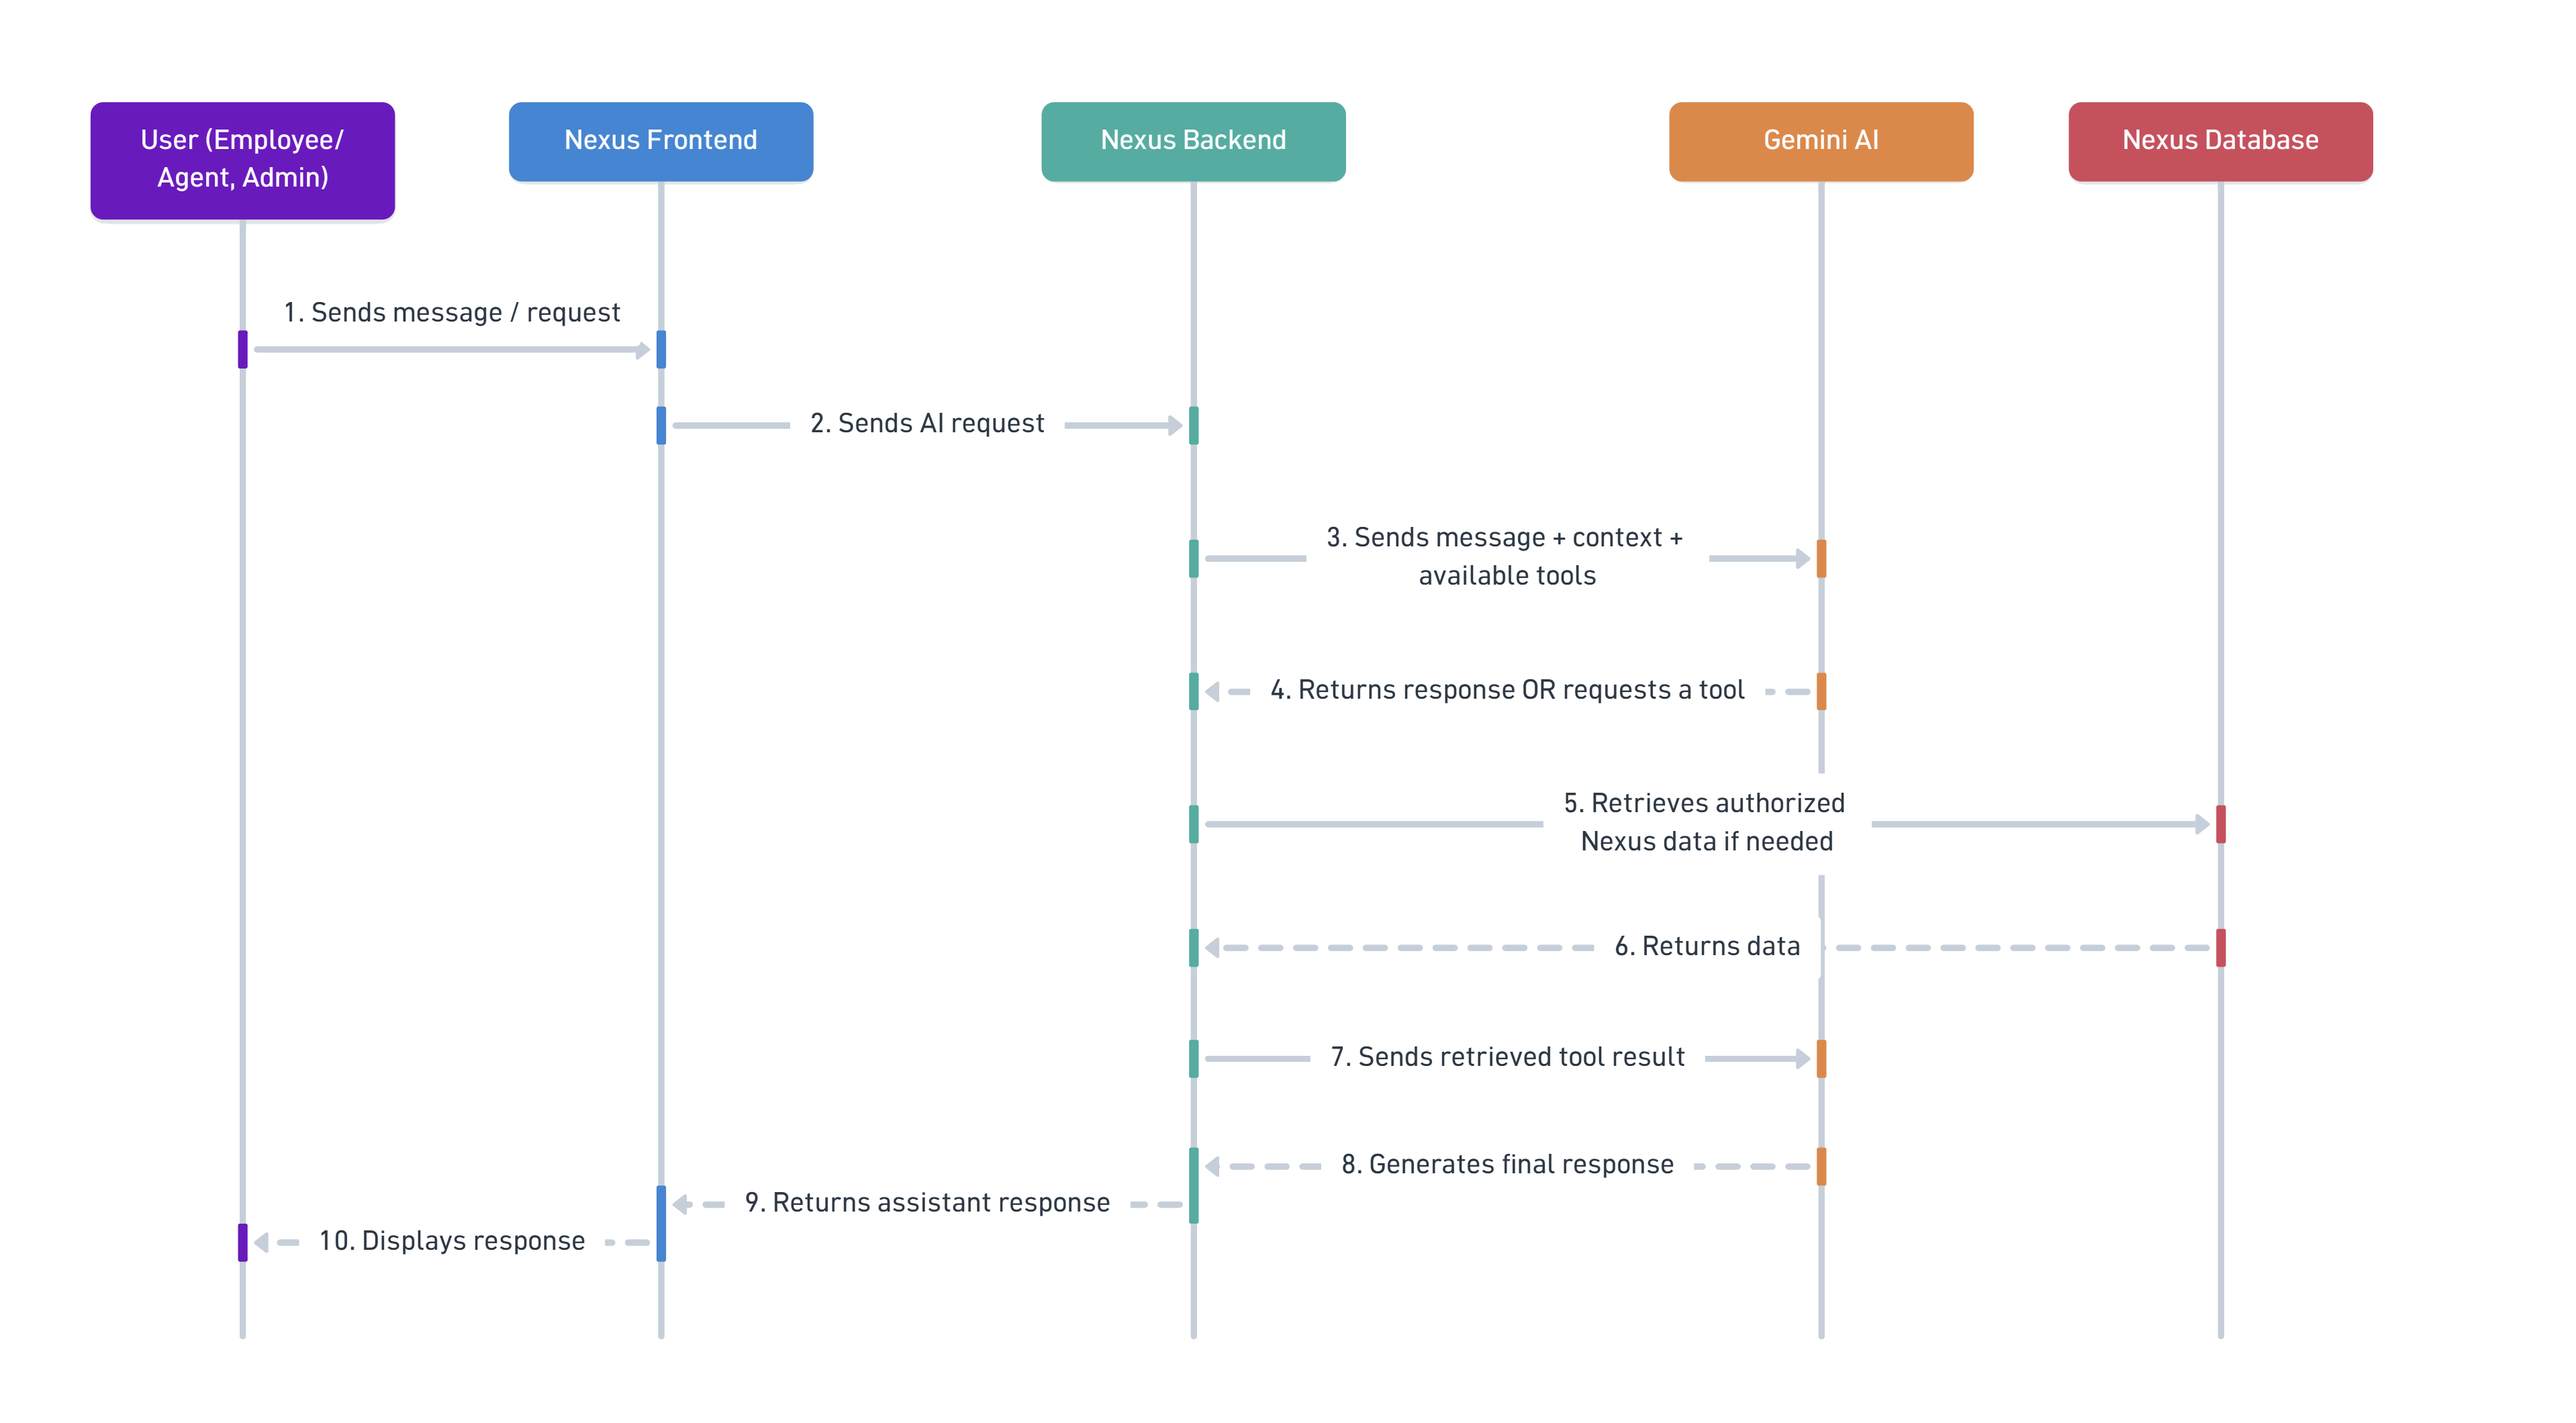
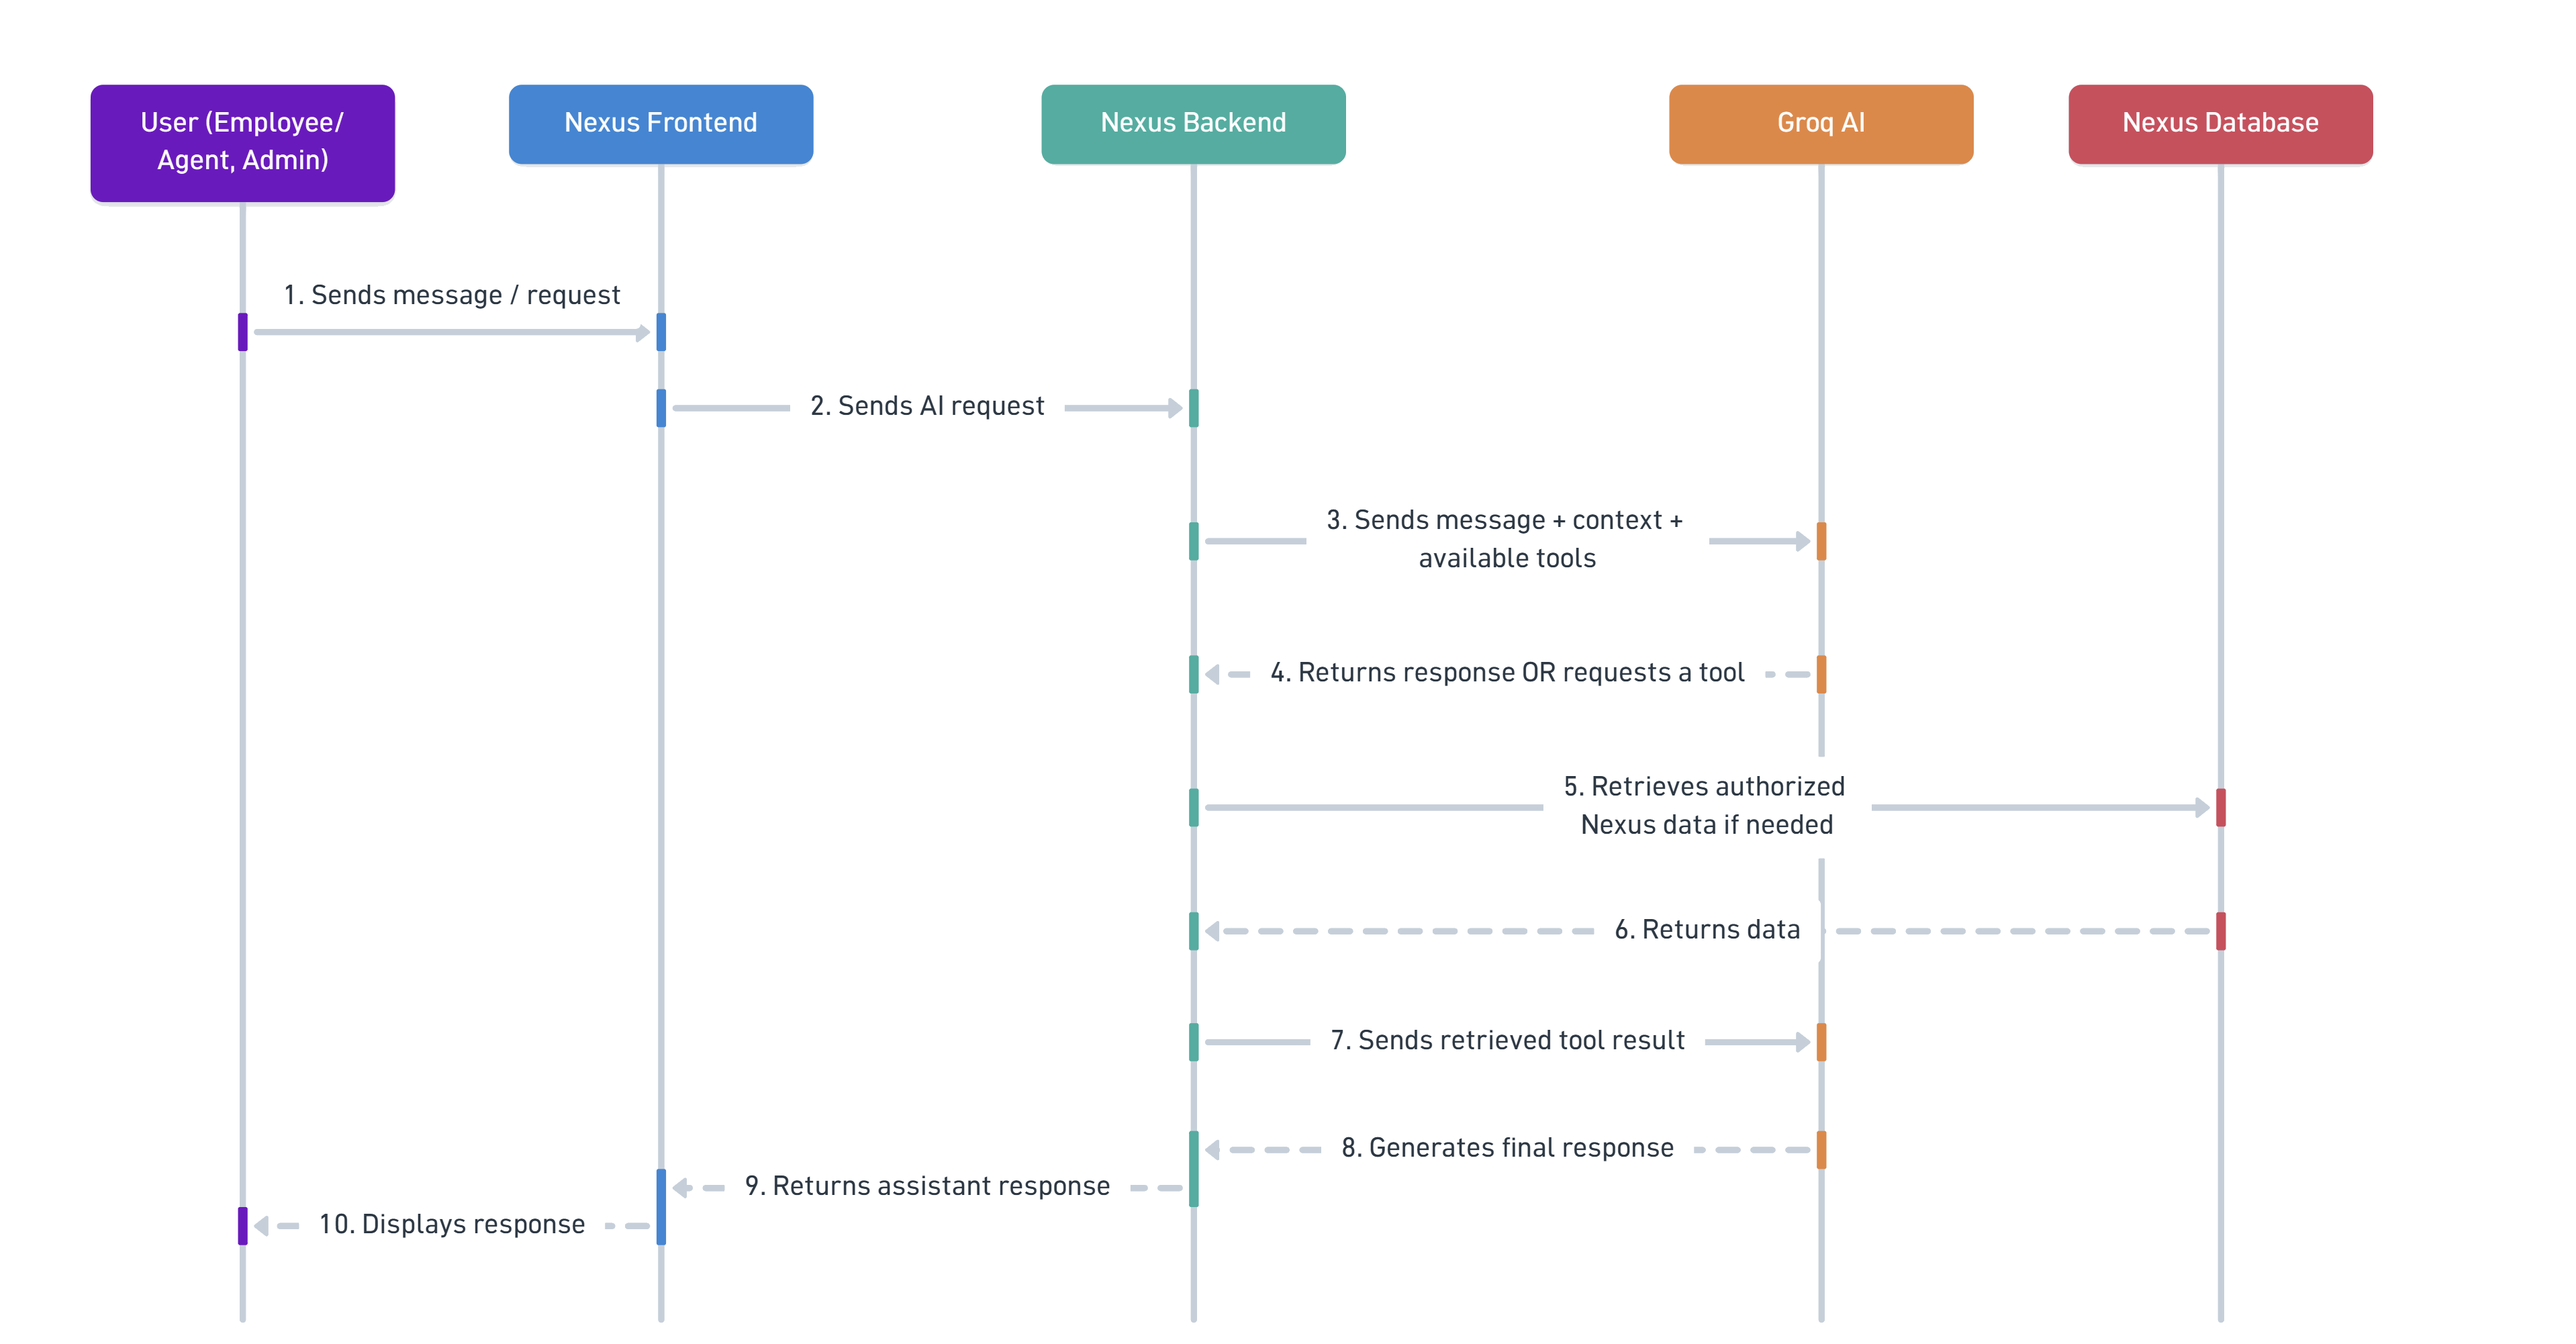
docs: updated documentation to mention Groq AI

diff --git a/docs/architecture.md b/docs/architecture.md
@@ -30,7 +30,7 @@ Handles user authentication through the companies existing identity providers, N
 Sends email notifications generated by Nexus
 
 #### AI Provider
-Provides AI reasoning for the AI assistant functionality, Nexus will use a Groq-hosted Llama model with the free tier as its initial model.
+Provides AI reasoning for the AI assistant functionality, Nexus will use a Groq-hosted model with the free tier as its initial model.
 Additionally, Nexus backend will provide an interface for the AI to call tools in case it needs access to authorized data.
 
 ### Architecture Choice
@@ -70,7 +70,7 @@ The authorization module provides the check for roles but not resources as resou
 
 - FileStorage Adapter: Provides a simple interface for file storing functions and file attachment handling.
 
-- AI Module: Responsible for orchestrating communication with the AI Provider and exposing preset tools for the AI to call. For example, the module exposes a getTicket tool that the AI can call with the specific ticket number to get info about it. Currently, the AI is limited to finding tickets by their number as advanced semantic database searches require RAG implementations which are outside the scope of Nexus.
+- AI Module: Responsible for orchestrating communication with the AI Provider and exposing tools for the AI to call. For example, the module exposes a getTicket tool that the AI can call with the specific ticket number to get info about it. Currently, the AI is limited to finding tickets by their number as advanced semantic database searches require RAG implementations which are outside the scope of Nexus.
 
 ![Module Connections](assets/Module%20Connections.png)
 
@@ -135,7 +135,7 @@ Nexus should correctly handle errors related to the Email Provider API:
 #### AI Provider
 Nexus uses a third party AI provider to power its AI assistant. The backend communicates with the AI provider through its API, sending user messages and the necessary context and receiving generated responses or requests to use available Nexus tools.
 
-Groq-hosted Llama model is used as the AI model for the initial implementation.
+Groq-hosted model is used as the AI model for the initial implementation.
 The AI provider does not have direct access to the Nexus database. When the AI requires system information, such as ticket details, departments or ticket history, it requests the appropriate tool from the Nexus backend. The backend is responsible for executing the operation while applying the same authentication, authorization and business rules as any other request
 
 Nexus should correctly handle errors related to the AI Provider:

diff --git a/docs/agentic-workflows/ai-assistant.md b/docs/agentic-workflows/ai-assistant.md
@@ -25,7 +25,7 @@ The AI must never receive unrestricted database access.
 
 # 2. AI Provider Architecture
 
-Use Groq-hosted Llama model as the initial AI provider.
+Use Groq-hosted model as the initial AI provider.
 
 Use the Strategy pattern for the AI provider integration so that Groq can later be replaced by another provider without changing the agent orchestration logic.
 
